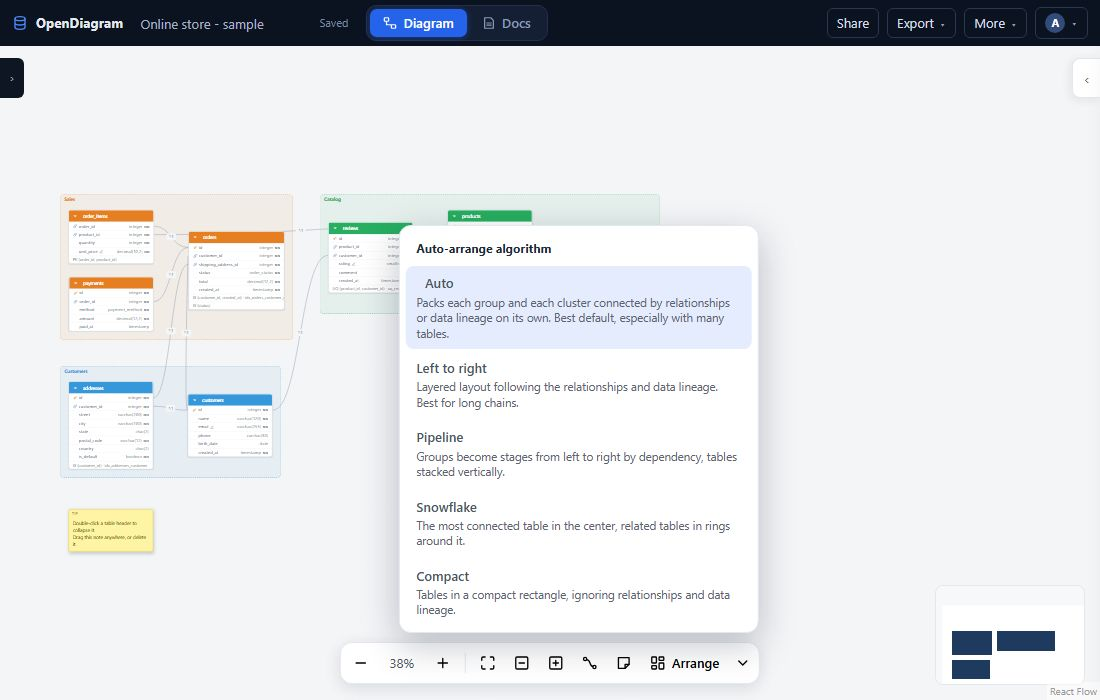
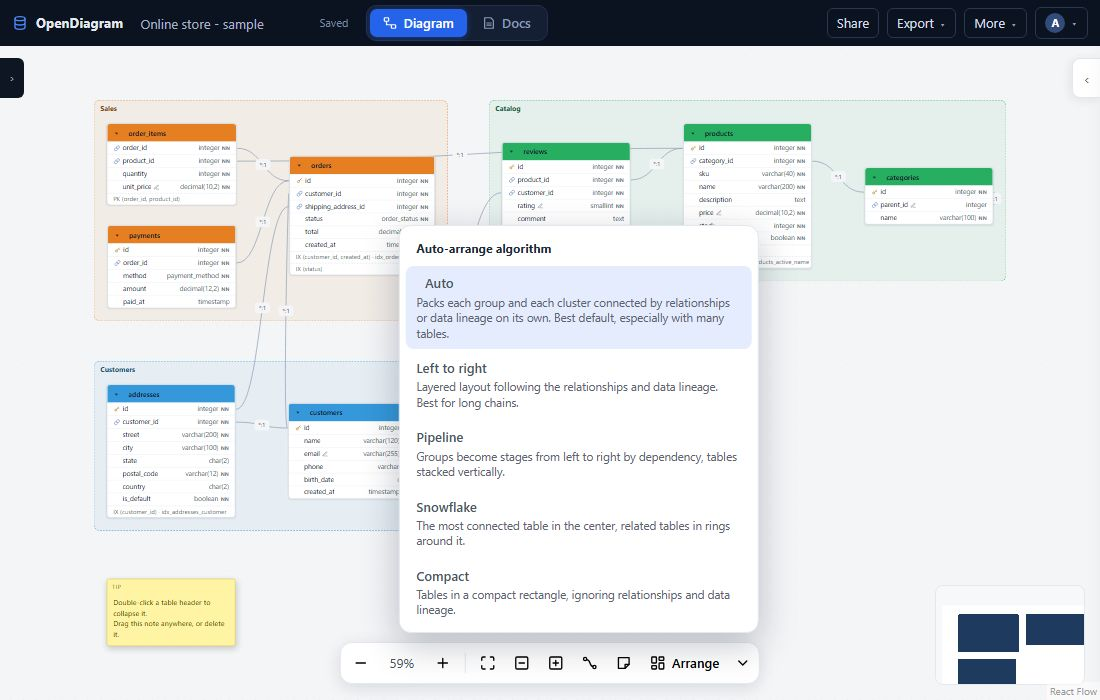
docs: UI standard for future changes (CLAUDE.md, spec 07); documentation pictures retaken after the audit fixes

diff --git a/CLAUDE.md b/CLAUDE.md
@@ -38,6 +38,13 @@ All three scripts accept `BASE=http://host:port` (default `http://localhost:3000
 - Errors thrown by the API carry `statusCode`; the global handler returns `{error}`. UI shows them as toasts via `notify` (inside the Admin overlay they are shown in the panel, because the overlay covers the toast area).
 - Diagram content (`dbml`, title, layout, connection link) lives on the server and autosaves; `localStorage` only keeps per-browser UI state: `view`, `docsCollapsed`, `lastDiagram`, `gen:<diagramId>` (last generated DBML for refresh diffs). Always wrap in try/catch (`store()` helper).
 
+## UI standard (applies to every UI change; details and rationale in [spec 11](.specs/11-ui-review.md))
+
+- **Reuse, do not restyle.** Buttons, fields, cards, dialogs, menus and motion come from the "UI foundation" layer at the end of `web/src/styles.css` (tokens `--r-*`, `--ctl*`, `--ease`, one control look through `:where()` selectors). No per-container button rules, no new radius/height/duration values, no fixed hex colours for text where a token exists. Icons: SVG from `Icons.jsx`, never emoji.
+- **Both themes, both widths.** A new surface must work in the light and dark theme (white surfaces such as `.admin` and `.menu-pop` reset `--muted`/`--line`) and at 375px (no horizontal scroll). Motion only with `opacity`/`transform`, never on canvas nodes, and it must respect `prefers-reduced-motion`.
+- **Accessibility floor.** Every control has an accessible name (icon buttons get `aria-label`), targets are >= 24px, text contrast >= 4.5:1 (colours coming from user data are chosen by contrast, see `readable()`), keyboard focus is always visible, dialogs use the `.admin` overlay (role, name, focus trap and focus return come from `a11y.js`), fields get a name from their placeholder/column header through `a11y.js` or a real `<label>`.
+- **Verify before committing a UI change:** rebuild, then run `node web/uiaudit.mjs <screen-name ...>` against a throw-away instance for the screens you touched (the full run takes ~20 min; run it before a release). The bar is **zero findings**. A new screen, drawer, popup or dialog is added to the script in the same commit. If the look of a documented screen changed, rerun `node web/docshots.mjs` and look at every picture.
+
 ## Security invariants (do not weaken)
 
 1. Every DB session must stay read-only: Postgres `BEGIN READ ONLY` + `default_transaction_read_only=on`; Oracle `SET TRANSACTION READ ONLY`. Only catalog queries; never read user table data.
@@ -90,6 +97,7 @@ The REA reverse-engineering MCP was only used to study the public dbdiagram.io U
 
 ## Working agreements
 
+- UI changes follow the **UI standard** section above; a change that fails `uiaudit.mjs` is not finished.
 - Smallest change that solves the problem; reuse what exists. Keep specs, README and the documentation pages (`web/src/docsite/pages/*.md`) consistent when behaviour changes.
 - Report honestly what was and was not tested (e.g. no Oracle with a real private CA was tried).
 - No attribution to third-party products in code/assets: this is a clean-room implementation, never copy code or images from dbdiagram.io.

diff --git a/.specs/07-testing.md b/.specs/07-testing.md
@@ -20,6 +20,8 @@ export TEST_ADMIN_EMAIL=admin@example.com TEST_ADMIN_PASSWORD='a-long-test-passw
 | `TEST_ADMIN_EMAIL=… TEST_ADMIN_PASSWORD=… node server/test-oracle-tls.mjs` | app + `--profile oracle` (`demo-oracle`, `demo-oracle-tls`) | Oracle TLS modes: verify, host-name mismatch, `serverDn` accepted/refused, `noverify`, TLS off against TCPS, DN injection |
 | `node server/test-lineage.mjs` | nothing (pure) | view column lineage: SQL parsing into output column -> source column (joins, aliases, expressions, aggregates, `*`, sub-selects, CTE, UNION, view on view, Oracle upper case, unreadable SQL gives null) |
 | `node web/lineage-check.mjs` | nothing (pure) | the `// lineage:` comment parser (table and column level, `(auto)` marker, merging, unknown names) and the upstream/downstream closure |
+| `node web/uiaudit.mjs [screen ...]` (needs `AUDIT_EMAIL`/`AUDIT_PASSWORD` of a throw-away instance, see its header) | a throw-away app instance with `demo-pg`; Chrome installed | UI audit of every screen in light/dark and desktop/phone: names, targets, labels, contrast, overflow, dialogs, keyboard walk ([11](11-ui-review.md)); zero findings is the bar |
+| `node web/docshots.mjs` (needs `SHOTS_EMAIL`/`SHOTS_PASSWORD` of a throw-away instance) | same | retakes the documentation pictures |
 | `cd web && node roundtrip.mjs` (also needs `TEST_ADMIN_*`) | app, `demo-pg`, `demo-oracle` | import → export (pg/mysql/mssql/oracle/json) → re-import comparison; prints diffs. Expected: PG→PG, Oracle→PG, Oracle→MSSQL identical; others fail as documented in [04](04-formats.md) |
 
 `test-auth` and `test-guardrails` exit non-zero on failure (`roundtrip.mjs` only prints; read its output). Demo data drifts if you alter `shop.*` manually — the scripts assume ≥ 4 PG tables.
